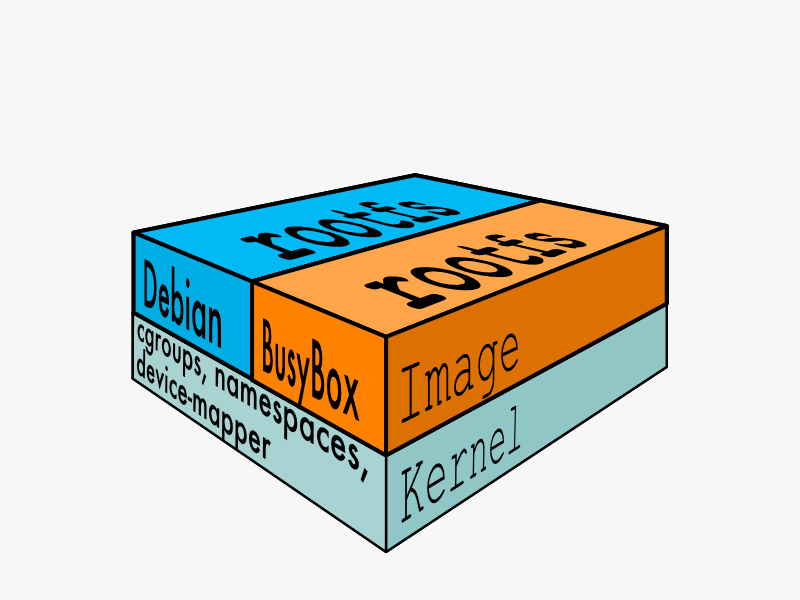
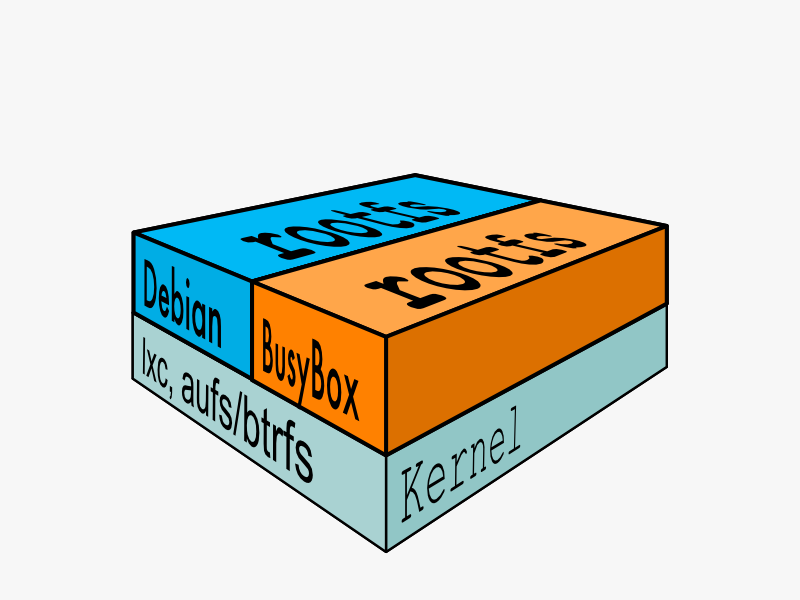
Revert "Fix #2115 Clean AUFS references. Also fixes some links to client libraries and mongo example."
This reverts commit f4c17a202b5f6021d48c3cb3342c37607b509630.

Changed region(s): [[0.1562, 0.54, 0.4688, 0.81], [0.5, 0.54, 0.6562, 0.72]]

diff --git a/github/docker/master/docs/sources/installation/ubuntulinux.rst b/github/docker/master/docs/sources/installation/ubuntulinux.rst
@@ -7,6 +7,11 @@
 Ubuntu Linux
 ============
 
+.. warning::
+
+   These instructions have changed for 0.6. If you are upgrading from
+   an earlier version, you will need to follow them again.
+
 .. include:: install_header.inc
 
 Right now, the officially supported distribution are:
@@ -14,10 +19,10 @@ Right now, the officially supported distribution are:
 - :ref:`ubuntu_precise`
 - :ref:`ubuntu_raring`
 
-Docker has the following dependencies (read more in :ref:`kernel`):
+Docker has the following dependencies
 
-* Linux kernel 3.8 
-* Device-mapper module
+* Linux kernel 3.8 (read more about :ref:`kernel`)
+* AUFS file system support (we are working on BTRFS support as an alternative)
 
 Please read :ref:`ufw`, if you plan to use `UFW (Uncomplicated
 Firewall) <https://help.ubuntu.com/community/UFW>`_
@@ -37,12 +42,12 @@ Dependencies
 
 Due to a bug in LXC, docker works best on the 3.8 kernel. Precise
 comes with a 3.2 kernel, so we need to upgrade it. The kernel you'll
-install when following these steps comes with device-mapper built
-in. We also include the generic headers to enable packages that depend
-on them, like ZFS and the VirtualBox guest additions. If you didn't
-install the headers for your "precise" kernel, then you can skip these
-headers for the "raring" kernel. But it is safer to include them if
-you're not sure.
+install when following these steps comes with AUFS built in. We also
+include the generic headers to enable packages that depend on them,
+like ZFS and the VirtualBox guest additions. If you didn't install the
+headers for your "precise" kernel, then you can skip these headers for
+the "raring" kernel. But it is safer to include them if you're not
+sure.
 
 
 .. code-block:: bash
@@ -58,7 +63,8 @@ you're not sure.
 Installation
 ------------
 
-.. versionchanged:: v0.6
+.. warning::
+
    These instructions have changed for 0.6. If you are upgrading from
    an earlier version, you will need to follow them again.
 
@@ -100,19 +106,13 @@ Ubuntu Raring 13.04 (64 bit)
 Dependencies
 ------------
 
-.. versionchanged:: v0.7
-   Starting in 0.7 you no longer need to add support for AUFS.
-   We now use the device-mapper module instead, and this module
-   is included with kernels since kernel version 2.6
+**AUFS filesystem support**
 
-Ubuntu Raring already comes with the 3.8 kernel, so we don't need to
-install it. However, not all systems have AUFS filesystem support
-enabled, so if you're on a Docker version before 0.7, then we need to
-install it.
+Ubuntu Raring already comes with the 3.8 kernel, so we don't need to install it. However, not all systems
+have AUFS filesystem support enabled, so we need to install it.
 
 .. code-block:: bash
 
-   # Only required for versions before v0.7
    sudo apt-get update
    sudo apt-get install linux-image-extra-`uname -r`
 
@@ -122,9 +122,8 @@ Installation
 
 Docker is available as a Debian package, which makes installation easy.
 
-*Please note that these instructions have changed for 0.6. If you are
-upgrading from an earlier version, you will need to follow them
-again.*
+*Please note that these instructions have changed for 0.6. If you are upgrading from an earlier version, you will need
+to follow them again.*
 
 .. code-block:: bash
 
@@ -161,8 +160,8 @@ Verify it worked
 Docker and UFW
 ^^^^^^^^^^^^^^
 
-Docker uses a bridge to manage container networking, and by default
-UFW drops all `forwarding`. A first step is to enable forwarding:
+Docker uses a bridge to manage containers networking, by default UFW
+drop all `forwarding`, a first step is to enable forwarding:
 
 .. code-block:: bash
 
@@ -179,4 +178,12 @@ Then reload UFW:
 
    sudo ufw reload
 
+
+UFW's default set of rules denied all `incoming`, so if you want to be
+able to reach your containers from another host, you should allow
+incoming connections on the docker port (default 4243):
+
+.. code-block:: bash
+
+   sudo ufw allow 4243/tcp
 

diff --git a/github/docker/master/docs/sources/installation/kernel.rst b/github/docker/master/docs/sources/installation/kernel.rst
@@ -11,7 +11,7 @@ In short, Docker has the following kernel requirements:
 
 - Linux version 3.8 or above.
 
-- `Device Mapper support <http://www.sourceware.org/dm/>`_.
+- `AUFS support <http://aufs.sourceforge.net/>`_.
 
 - Cgroups and namespaces must be enabled.
 
@@ -48,17 +48,15 @@ detects something older than 3.8.
 See issue `#407 <https://github.com/dotcloud/docker/issues/407>`_ for details.
 
 
-Device Mapper support
----------------------
+AUFS support
+------------
 
-The `Device Mapper <http://www.sourceware.org/dm/>`_ replaces the
-previous Docker dependency on AUFS and has been in the kernel since
-2.6.9, so the device-mapper module is more broadly-supported across
-Linux distributions. Docker uses `thin-provisioning
-<https://github.com/mirrors/linux/blob/master/Documentation/device-mapper/thin-provisioning.txt>`_
-to provide a :ref:`unioning file system <ufs_def>`. If you'd like to
-check for the presence of the device-mapper module, please see the
-`LVM-HOWTO. <http://www.tldp.org/HOWTO/LVM-HOWTO/builddmmod.html>`_
+Docker currently relies on AUFS, an unioning filesystem.
+While AUFS is included in the kernels built by the Debian and Ubuntu
+distributions, is not part of the standard kernel. This means that if
+you decide to roll your own kernel, you will have to patch your
+kernel tree to add AUFS. The process is documented on
+`AUFS webpage <http://aufs.sourceforge.net/>`_.
 
 
 Cgroups and namespaces
@@ -71,7 +69,7 @@ to run LXC containers. Note that 2.6.32 has some documented issues regarding
 network namespace setup and teardown; those issues are not a risk if you
 run containers in a private environment, but can lead to denial-of-service
 attacks if you want to run untrusted code in your containers. For more details,
-see `LP#720095 <https://bugs.launchpad.net/ubuntu/+source/linux/+bug/720095>`_.
+see `[LP#720095 <https://bugs.launchpad.net/ubuntu/+source/linux/+bug/720095>`_.
 
 Kernels 2.6.38, and every version since 3.2, have been deployed successfully
 to run containerized production workloads. Feature-wise, there is no huge

diff --git a/github/docker/master/docs/sources/api/remote_api_client_libraries.rst b/github/docker/master/docs/sources/api/remote_api_client_libraries.rst
@@ -3,18 +3,14 @@
 :keywords: API, Docker, index, registry, REST, documentation, clients, Python, Ruby, Javascript, Erlang, Go
 
 
-.. _remote_api_client_libs:
-
 ==================================
 Docker Remote API Client Libraries
 ==================================
 
 These libraries have not been tested by the Docker Maintainers for
-compatibility with the :doc:`docker_remote_api`. Please file issues
-with the library owners.  If you find more library implementations,
-please list them in `Docker doc issues
-<https://github.com/dotcloud/docker/issues?direction=desc&labels=doc&sort=updated&state=open>`_
-or make a pull request, and we will add the libraries here.
+compatibility. Please file issues with the library owners.  If you
+find more library implementations, please list them in Docker doc bugs
+and we will add the libraries here.
 
 +----------------------+----------------+--------------------------------------------+
 | Language/Framework   | Name           | Repository                                 |

diff --git a/github/docker/master/docs/sources/installation/gentoolinux.rst b/github/docker/master/docs/sources/installation/gentoolinux.rst
@@ -25,11 +25,6 @@ properly installing and using the overlay can be found in `the overlay README
 Installation
 ^^^^^^^^^^^^
 
-.. versionchanged:: v0.7
-   This section may need to be updated since Docker no longer depends
-   on AUFS. Please see :ref:`kernel`.
-
-
 The package should properly pull in all the necessary dependencies and prompt
 for all necessary kernel options.  For the most straightforward installation
 experience, use ``sys-kernel/aufs-sources`` as your kernel sources.  If you

diff --git a/github/docker/master/docs/sources/installation/archlinux.rst b/github/docker/master/docs/sources/installation/archlinux.rst
@@ -19,10 +19,6 @@ The lxc-docker-git package will build from the current master branch.
 Dependencies
 ------------
 
-.. versionchanged:: v0.7
-   This section may need to be updated since Docker no longer depends
-   on AUFS. Please see :ref:`kernel`.
-
 Docker depends on several packages which are specified as dependencies in
 either AUR package.
 

diff --git a/github/docker/master/docs/sources/api/docker_remote_api.rst b/github/docker/master/docs/sources/api/docker_remote_api.rst
@@ -22,7 +22,6 @@ Docker Remote API
 - Since API version 1.2, the auth configuration is now handled client
   side, so the client has to send the authConfig as POST in
   /images/(name)/push
-- Known client libraries may be found in :ref:`remote_api_client_libs`
 
 2. Versions
 ===========

diff --git a/github/docker/master/docs/sources/examples/hello_world.rst b/github/docker/master/docs/sources/examples/hello_world.rst
@@ -178,4 +178,4 @@ you could skip to any of the other examples:
 * :ref:`running_ssh_service`
 * :ref:`running_couchdb_service`
 * :ref:`postgresql_service`
-* :ref:`mongodb_image`
+* :ref:`mongodb`

diff --git a/github/docker/master/docs/sources/api/index.rst b/github/docker/master/docs/sources/api/index.rst
@@ -14,5 +14,5 @@ Your programs and scripts can access Docker's functionality via these interfaces
   registry_api
   index_api
   docker_remote_api
-  remote_api_client_libraries
+
 
